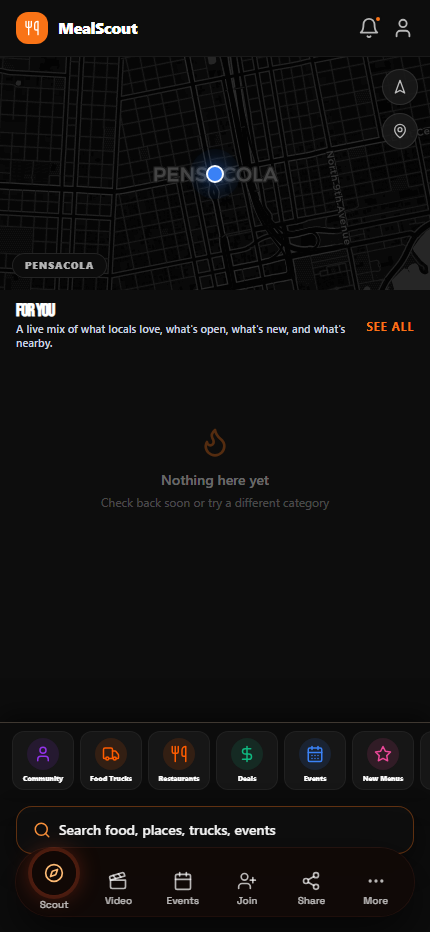
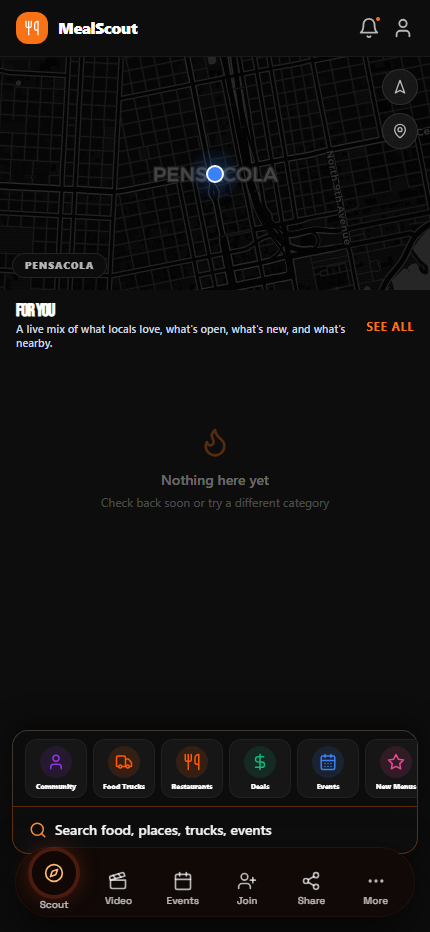
Simplify scout-prototype unified bottom control dock

diff --git a/client/src/pages/scout-prototype.tsx b/client/src/pages/scout-prototype.tsx
@@ -218,10 +218,12 @@ export default function ScoutPrototype() {
   const [deviceCoords, setDeviceCoords] = useState<{ lat: number; lng: number } | null>(null);
   const [locationName, setLocationName] = useState("Pensacola");
   const [savedIds, setSavedIds] = useState<Set<string>>(new Set());
-  const navOffset = "calc(env(safe-area-inset-bottom) + 4.9rem)";
-  const searchDockHeight = 56;
-  const sceneDockHeight = 84;
-  const feedBottomClearance = `calc(env(safe-area-inset-bottom) + ${searchDockHeight + sceneDockHeight + 112}px)`;
+  const GLOBAL_NAV_HEIGHT = 78;
+  const SCOUT_SCENE_RAIL_HEIGHT = 76;
+  const SCOUT_SEARCH_DOCK_HEIGHT = 56;
+  const SCOUT_DOCK_GAP = 10;
+  const scoutDockBottom = `calc(env(safe-area-inset-bottom) + ${GLOBAL_NAV_HEIGHT}px)`;
+  const feedBottomClearance = `calc(env(safe-area-inset-bottom) + ${GLOBAL_NAV_HEIGHT + SCOUT_SCENE_RAIL_HEIGHT + SCOUT_SEARCH_DOCK_HEIGHT + SCOUT_DOCK_GAP + 48}px)`;
 
   /* ─── location ─── */
   const location = useMemo(() => {
@@ -547,49 +549,43 @@ export default function ScoutPrototype() {
         </div>
       </div>
 
-      {/* ── Explore the Scene — directly above search dock ── */}
-      <div
-        className="fixed left-0 right-0 z-[1050] bg-[#0d0d0d]/95 backdrop-blur-xl border-t border-white/8 shadow-[0_-8px_24px_rgba(0,0,0,0.5)]"
-        style={{ bottom: `calc(${navOffset} + ${searchDockHeight}px)` }}
-      >
-        <div className="flex gap-1.5 overflow-x-auto no-scrollbar px-3 pt-2 pb-2">
-          {EXPLORE_TILES.map(tile => {
-            const count = tileCounts[tile.id as keyof typeof tileCounts] || tile.count;
-            return (
-              <button
-                key={tile.id}
-                onClick={() => setActiveScene(tile.id)}
-                className={`shrink-0 flex flex-col items-center text-center rounded-xl px-1.5 py-1.5 border transition-all duration-200 w-[62px] ${
-                  activeScene === tile.id
-                    ? "bg-[#1e1e1e] border-orange-500/40"
-                    : "bg-[#161616] border-white/5 hover:border-orange-500/20"
-                }`}
-              >
-                <div className="w-8 h-8 rounded-lg flex items-center justify-center mb-1" style={{ backgroundColor: `${tile.color}20` }}>
-                  <span style={{ color: tile.color }}>{tile.icon}</span>
-                </div>
-                <span className="text-[7px] font-black text-white leading-tight w-full truncate">{tile.label}</span>
-                {count && <span className="text-[7px] font-bold mt-0.5" style={{ color: tile.color }}>{count}</span>}
-              </button>
-            );
-          })}
+      {/* ── Unified Scout bottom control dock ── */}
+      <div className="fixed inset-x-0 z-[1000] pointer-events-none" style={{ bottom: scoutDockBottom }}>
+        <div className="mx-auto w-full max-w-[480px] px-3 pointer-events-auto">
+          <div className="rounded-t-2xl border border-b-0 border-white/8 bg-[#0d0d0d]/95 backdrop-blur-xl shadow-[0_-8px_24px_rgba(0,0,0,0.5)]">
+            <div className="flex gap-1.5 overflow-x-auto no-scrollbar px-3 pt-2 pb-2">
+              {EXPLORE_TILES.map(tile => {
+                const count = tileCounts[tile.id as keyof typeof tileCounts] || tile.count;
+                return (
+                  <button
+                    key={tile.id}
+                    onClick={() => setActiveScene(tile.id)}
+                    className={`shrink-0 flex flex-col items-center text-center rounded-xl px-1.5 py-1.5 border transition-all duration-200 w-[62px] ${
+                      activeScene === tile.id
+                        ? "bg-[#1e1e1e] border-orange-500/40"
+                        : "bg-[#161616] border-white/5 hover:border-orange-500/20"
+                    }`}
+                  >
+                    <div className="w-8 h-8 rounded-lg flex items-center justify-center mb-1" style={{ backgroundColor: `${tile.color}20` }}>
+                      <span style={{ color: tile.color }}>{tile.icon}</span>
+                    </div>
+                    <span className="text-[7px] font-black text-white leading-tight w-full truncate">{tile.label}</span>
+                    {count && <span className="text-[7px] font-bold mt-0.5" style={{ color: tile.color }}>{count}</span>}
+                  </button>
+                );
+              })}
+            </div>
+          </div>
+          <button
+            type="button"
+            onClick={() => navigate("/search")}
+            className="mt-0 flex h-12 w-full items-center gap-2 rounded-b-2xl border border-orange-500/35 bg-[#0f0f0f]/95 px-4 text-left text-sm font-semibold text-white/88 shadow-[0_10px_30px_rgba(0,0,0,0.45)] backdrop-blur-xl"
+            aria-label="Search food, places, trucks, events"
+          >
+            <Search size={18} className="text-orange-400 shrink-0" />
+            <span className="truncate">Search food, places, trucks, events</span>
+          </button>
         </div>
-      </div>
-
-      {/* ── Search Dock — fixed directly above global nav ── */}
-      <div
-        className="fixed left-0 right-0 z-[1060] px-4"
-        style={{ bottom: navOffset }}
-      >
-        <button
-          type="button"
-          onClick={() => navigate("/search")}
-          className="mx-auto flex h-12 w-full max-w-[620px] items-center gap-2 rounded-2xl border border-orange-500/35 bg-[#0f0f0f]/95 px-4 text-left text-sm font-semibold text-white/88 shadow-[0_10px_30px_rgba(0,0,0,0.45)] backdrop-blur-xl"
-          aria-label="Search food, places, trucks, events"
-        >
-          <Search size={18} className="text-orange-400 shrink-0" />
-          <span className="truncate">Search food, places, trucks, events</span>
-        </button>
       </div>
 
       {/* ── Feed ── */}
